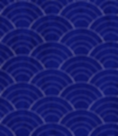
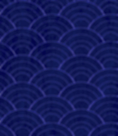
update

diff --git a/local/resources/assets/sass/frontend/common/menu/menu.scss b/local/resources/assets/sass/frontend/common/menu/menu.scss
@@ -1,10 +1,11 @@
-$main-color:#dbbc85;
+$main-color: #dbbc85;
 #menu {
   position: fixed;
   top: 0;
   left: 0;
   background-color: #fff;
   z-index: 10;
+  text-align: center;
   /*box-shadow: 0px 0px 2px 0px #6c757d;*/
   #logo img {
     width: 120%;
@@ -45,7 +46,7 @@ $main-color:#dbbc85;
       li {
         position: relative;
         display: inline-flex;
-        padding: 0px 6px;
+        padding: 0px 18px;
         z-index: 2;
         &:first-child {
           position: relative;
@@ -53,9 +54,10 @@ $main-color:#dbbc85;
         }
 
         a {
+          font-weight: 600;
+          font-size: 15px;
           color: #444647;
-          padding-top: 38px;
-          padding-bottom: 38px;
+          padding: 38px 0px;
           transition: .3s;
           &:hover {
             color: $main-color;
@@ -64,14 +66,19 @@ $main-color:#dbbc85;
           }
         }
 
-        &:nth-last-child(2) a {
-          color: #fff;
-          background-color: #036ecf;
-          padding: 8px 12px 6px 12px;
-          border-radius: 5px;
-          transition: .3s;
-          &:hover{
-            background-color: $main-color;
+        &:nth-last-child(2) {
+          padding: 0px 3px !important;
+
+          a {
+            font-weight: 500;
+            color: #fff;
+            background-color: #036ecf;
+            padding: 12px 12px 10px 12px;
+            border-radius: 5px;
+            transition: .3s;
+            &:hover {
+              background-color: $main-color;
+            }
           }
         }
         a.active {
@@ -89,7 +96,7 @@ $main-color:#dbbc85;
         top: 100%;
       }
 
-      #thuvien_overlay{
+      #thuvien_overlay {
         z-index: 2;
         &:hover #thuvien_content {
           /*display: block;*/
@@ -123,13 +130,17 @@ $main-color:#dbbc85;
           &:last-child {
             margin-bottom: 10px;
           }
-          a {
-            padding: 6px 10px;
+          a.sub-menu {
+            padding: 6px 10px !important;
             transition: .3s;
           }
-          &:nth-last-child(2) a {
-            background-color: transparent;
-            color: #2a2a2a;
+          &:nth-last-child(2) {
+            padding: 10px 10px!important;
+            a.sub-menu {
+              font-weight: 600 !important;
+              background-color: transparent;
+              color: #2a2a2a;
+            }
           }
           &:nth-last-child(2) a:hover {
             color: $main-color;
@@ -183,9 +194,9 @@ $main-color:#dbbc85;
 
 }
 
-#tv_overlay{
+#tv_overlay {
   position: relative;
-  .tv-content{
+  .tv-content {
     position: absolute;
     top: -200%;
     background-color: white;
@@ -196,28 +207,28 @@ $main-color:#dbbc85;
     height: 30px;
     opacity: 0;
     text-align: center;
-  }&:hover .tv-content{
-       opacity: 1;
-       height: auto;
-       top: 100%;
-       padding-top: 5px;
-       padding-bottom: 5px;
-     }
-  &:hover .tv-content a{
+  }
+  &:hover .tv-content {
+    opacity: 1;
+    height: auto;
+    top: 100%;
+    padding-top: 5px;
+    padding-bottom: 5px;
+  }
+  &:hover .tv-content a {
     display: inline-block;
   }
-  .tv-content  a{
+  .tv-content a {
     position: relative;
     margin: 0;
-    padding: 12px 6px!important;
+    padding: 12px 6px !important;
     display: none;
-    width: fit-content!important;
+    width: fit-content !important;
     min-width: 118px;
     text-align: center;
     border-right: 2px solid #e8bc91;
   }
 }
-
 
 //mobile menu
 
@@ -245,17 +256,18 @@ $main-color:#dbbc85;
     li {
       width: 100%;
       padding: 10px 20px;
-      &:nth-last-child(3) a {
+      &:nth-last-child(3) {
+        a {
+          padding: 10px 20px;
+          background-color: #0f74a8;
+          color: white;
+          border-radius: 5px;
 
-        padding: 10px 20px;
-        background-color: #0f74a8;
-        color: white;
-        border-radius: 5px;
-
+        }
       }
       a {
         color: #2a2a2a;
-        font-size: 20px;
+        font-size: 18px;
         i {
           height: 38px;
           width: 38px;
@@ -289,7 +301,7 @@ $main-color:#dbbc85;
 
 }
 
-#demo,#demo2 {
+#demo, #demo2 {
   height: 0;
   padding-left: 38px;
   /*padding-top: 10px;*/
@@ -297,7 +309,7 @@ $main-color:#dbbc85;
   transition: 1s;
 }
 
-#demo a,#demo2 a {
+#demo a, #demo2 a {
   display: none;
   padding-top: 10px;
   padding-bottom: 10px;

diff --git a/css/frontend/common/menu/index.css b/css/frontend/common/menu/index.css
@@ -4,6 +4,7 @@
   left: 0;
   background-color: #fff;
   z-index: 10;
+  text-align: center;
   /*box-shadow: 0px 0px 2px 0px #6c757d;*/
 }
 
@@ -49,7 +50,7 @@
   display: -webkit-inline-box;
   display: -ms-inline-flexbox;
   display: inline-flex;
-  padding: 0px 6px;
+  padding: 0px 18px;
   z-index: 2;
 }
 
@@ -59,9 +60,10 @@
 }
 
 #menu #menu_content ul li a {
+  font-weight: 600;
+  font-size: 15px;
   color: #444647;
-  padding-top: 38px;
-  padding-bottom: 38px;
+  padding: 38px 0px;
   -webkit-transition: .3s;
   transition: .3s;
 }
@@ -72,10 +74,15 @@
   /*padding:20px;*/
 }
 
+#menu #menu_content ul li:nth-last-child(2) {
+  padding: 0px 3px !important;
+}
+
 #menu #menu_content ul li:nth-last-child(2) a {
+  font-weight: 500;
   color: #fff;
   background-color: #036ecf;
-  padding: 8px 12px 6px 12px;
+  padding: 12px 12px 10px 12px;
   border-radius: 5px;
   -webkit-transition: .3s;
   transition: .3s;
@@ -141,13 +148,18 @@
   margin-bottom: 10px;
 }
 
-#menu #menu_content #dv_overlay #dv_content li a {
-  padding: 6px 10px;
+#menu #menu_content #dv_overlay #dv_content li a.sub-menu {
+  padding: 6px 10px !important;
   -webkit-transition: .3s;
   transition: .3s;
 }
 
-#menu #menu_content #dv_overlay #dv_content li:nth-last-child(2) a {
+#menu #menu_content #dv_overlay #dv_content li:nth-last-child(2) {
+  padding: 10px 10px !important;
+}
+
+#menu #menu_content #dv_overlay #dv_content li:nth-last-child(2) a.sub-menu {
+  font-weight: 600 !important;
   background-color: transparent;
   color: #2a2a2a;
 }
@@ -287,7 +299,7 @@
 
 #hera_mobile_menu_content ul li a {
   color: #2a2a2a;
-  font-size: 20px;
+  font-size: 18px;
 }
 
 #hera_mobile_menu_content ul li a i {

diff --git a/local/resources/views/frontend/common/menu/menu.blade.php b/local/resources/views/frontend/common/menu/menu.blade.php
@@ -140,18 +140,20 @@
 
 </style>
 
-<div id="menu" class="container-fluid p-0 d-none d-md-block">
-    <div class="container-fluid">
-        <div class="container">
-            <div class="row">
-                <div class="col-md-12 d-flex justify-content-between align-items-center">
+<div id="menu" class="container-fluid justify-content-center p-0 d-none d-md-block">
+    <div class="container-fluid justify-content-center">
 
-                    <div id="logo" class="pt-2 pb-2">
-                        <img src="{{URL::asset('images/logo/logo-hera-center.png')}}" alt="">
+            <div class="row">
+                <div class="col-md-12 d-flex justify-content-center align-items-center">
+
+                    <div id="logo" class="pt-2 pb-2 pl-4 pr-5">
+                        <a href="{{URL::asset('/')}}"><img src="{{URL::asset('images/logo/logo-hera-center.png')}}" alt=""></a>
                     </div>
+
                     <div id="menu_content">
                         <ul>
-                            <li><a class="{{ request()->is('/') ? 'active' : '/' }}" href="{{URL::asset('/')}}">TRANG
+
+                            <li><a class="{{ request()->is('/') ? 'active' : '/' }}" href="">TRANG
                                     CHỦ</a></li>
                             <li id="dv_overlay"><a class="{{ request()->is('dich-vu*') ? 'active' : '/' }}" href="{{URL::asset('/dich-vu')}}">DỊCH VỤ</a>
                                 <ul id="dv_content">
@@ -190,6 +192,6 @@
 
                 </div>
             </div>
-        </div>
+
     </div>
 </div>

diff --git a/local/resources/views/frontend/home/index.blade.php b/local/resources/views/frontend/home/index.blade.php
@@ -24,7 +24,7 @@
     @include('frontend.common.slider')
 @stop
 @section('container')
-    <div class="bg-container" style="background-image:url({{URL::asset('images/bg/bg-chuan.png')}});">
+    <div class="bg-container" style="background-image:url({{URL::asset('images/bg/Asset5.png')}});">
         @include('frontend.home.h_1')
         @include('frontend.home.h_2')
         @include('frontend.home.h_3')
